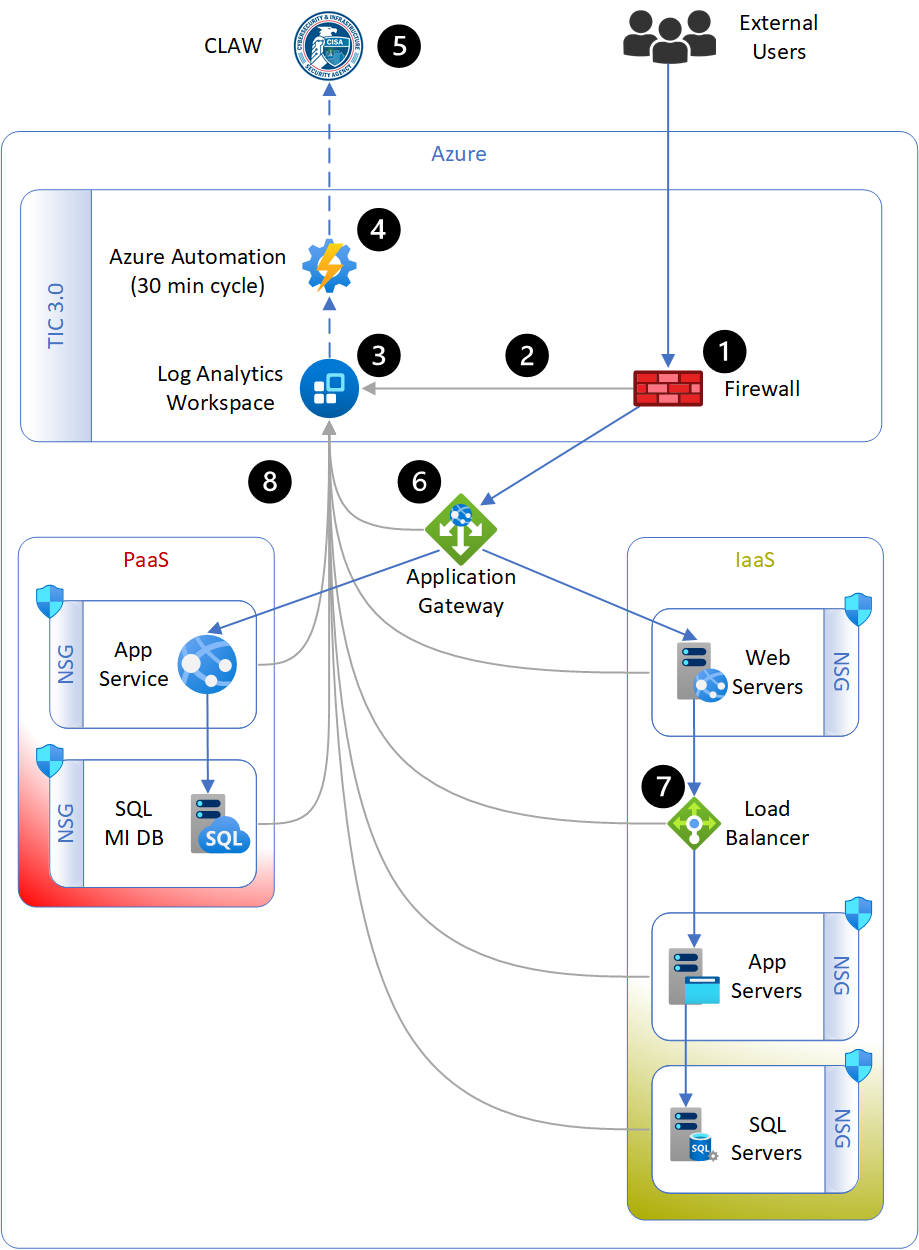
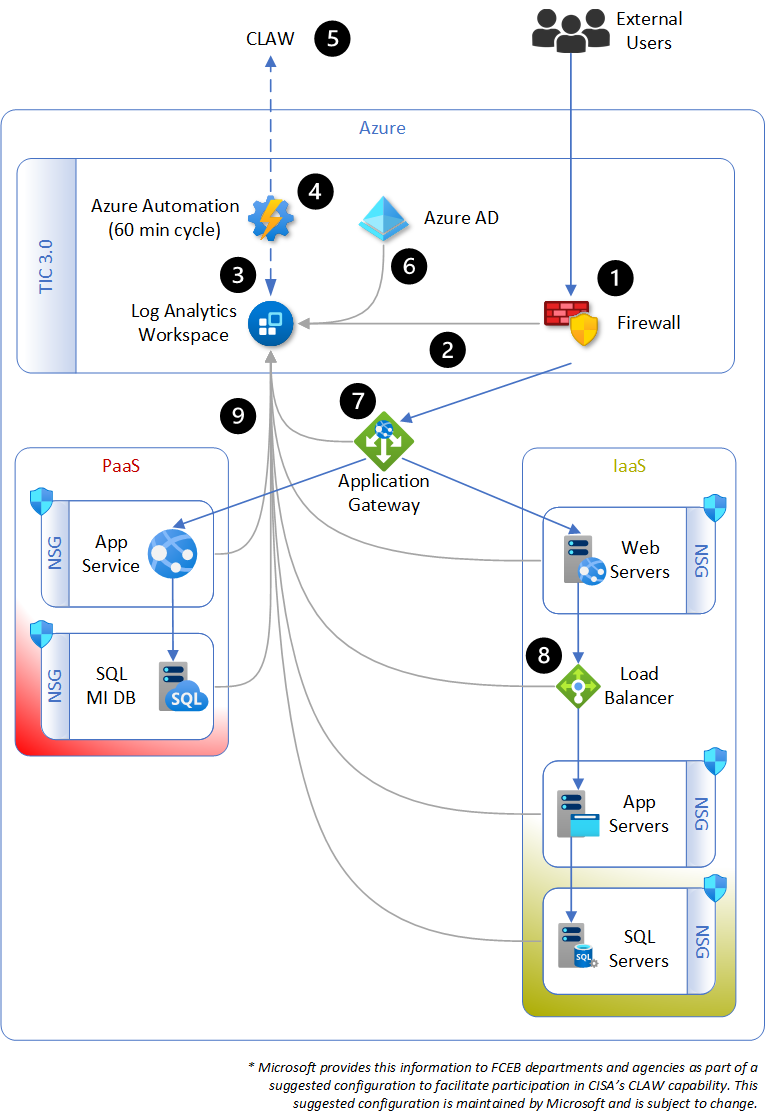
Updated README.md

diff --git a/README.md b/README.md
@@ -5,7 +5,7 @@ The common component for each of the solutions outlined in this article is an Az
 
 ## Potential use cases
 
-Federal organizations and government agencies are the most likely use case for implementing TIC 3.0 compliance solutions for the Azure applications and services. TIC 3.0 matures data collection from the on-premises only into a cloud forward approach that better supports how modern organization IT is utilized. The CISA CLAW is a maturation of the EINSTEIN on-premises data collection model geared towards cloud environments. CISA wants to "improve performance, reduce costs, and enhance threat discovery and incident  responsiveness for agencies". 
+Federal organizations and government agencies are the most likely use case for implementing TIC 3.0 compliance solutions for their web applications and API services deployed in Azure. TIC 3.0 matures data collection from the on-premises only into a cloud forward approach that better supports how modern organization IT is utilized. The CISA CLAW is a maturation of the EINSTEIN on-premises data collection model geared towards cloud environments. CISA aims to "improve performance, reduce costs, and enhance threat discovery and incident  responsiveness for agencies". 
 
 - [TIC 3.0 Core Guidance Documents | CISA](https://www.cisa.gov/publication/tic-30-core-guidance-documents)
 - [National Cybersecurity Protection System Documents (NCPS) | CISA](https://www.cisa.gov/publication/national-cybersecurity-protection-system-documents)
@@ -16,11 +16,11 @@ Federal organizations and government agencies are the most likely use case for i
 
 ### Supported CLAW Destinations
 
-CISA's initial CLAW destination leverages Amazon S3 as the storage mechanism. As such, this solution supports S3. When CISA deploys CLAW support running in Azure, this solution will update to send logs to Azure-based CLAW.
+As of Q1 2022, CISA's CLAW only resides in an Amazon S3 bucket. This means that all TIC 3.0 compliant logs collected in Azure are transmitted to a CISA owned Amazon S3 bucket. This solution supports that storage destination. When an Azure-based CISA owned storage option is available, this solution will update to support saving TIC 3.0 compliant logs to the Azure storage destination.
 
 ## Architecture
 
-Architecture solutions are defined by three categories: Azure firewall and third-party firewalls. Azure firewall send logs to a Log Analytics workspace using the diagnostic settings configuration native to Azure. Third-party firewalls send logs using the vendors syslog export feature. For the purpose of this guide, the Palo Alto network virtual appliance (NVA), running in Azure, will be used for the tutorial on how to export logs in syslog format to the Log Analytics workspace.
+Architecture solutions are defined by two categories, Azure Firewall and third-party firewalls. Azure Firewall is natively configured to send logs to a Log Analytics workspace while third-party firewalls typically send logs to a Log Analytics workspace using the vendors' syslog export feature. For the purpose of this guide, the Palo Alto network virtual appliance (NVA), running in Azure, will be used for the tutorial on how to export logs in syslog format to the Log Analytics workspace.
 
 *Figure 1. TIC 3.0 Compliant Architecture with Firewall Uploading Logs to CLAW*
 
@@ -31,44 +31,31 @@ Architecture solutions are defined by three categories: Azure firewall and third
 #### Firewall
 
 1. Firewall
-   1. This can be a native Azure firewall or a third-party firewall appliance.
-   2. The firewall will enforce policies, collect metrics, and log connection transactions between users and services accessing the web services.
-   3. ARM template for native Azure firewall (premium) provided to simplify deployment.
-      1. Premium is utilized as it provides Intrusion Detection System (IDS) capabilities.
+   - This can be a native Azure Firewall or a third-party firewall appliance.
+   - The firewall will enforce policies, collect metrics, and log connection transactions between users and services accessing the web services.
+   - Firewall policy premium is utilized as it provides Intrusion Detection and Prevent System (IDPS) capabilities.
 2. Firewall Logs
-   1. The Azure firewall will send logs using Azure Diagnostic settings to an Azure Log Analytics workspace.
-      1. Azure Automation will collect and deliver Azure Firewall traffic and IDS logs.
-   2. Third-party firewalls will send logs in syslog format to the Azure Log Analytics workspace.
-      1. Azure Automation can collect and deliver third-party logs, instructions provided.
+   - The Azure Firewall will send logs using Azure Diagnostic settings to an Azure Log Analytics workspace.
+   - Third-party firewalls will send logs in syslog format to the Azure Log Analytics workspace.
 3. Log Analytics Workspace
-   1. Repository for the collection of logs.
-   2. Provides a service for the organization to perform their own analysis on the network traffic along side its delivery to the CLAW.
-   3. ARM template provided to simplify deployment.
+   - Repository for the collection of logs.
+   - Provides a service for the organization to perform their own analysis on the network traffic along side its delivery to the CLAW.
 4. Azure Automation
-   1. Executes every 60 minutes.
-   2. Sends logs in json format to CLAW.
-   3. Automation ARM template and script code provided to simplify deployment.
-   4. Encrypted variables simplifies operational management of updating rotating secrets.
+   - Executes every 60 minutes and queries Log Analytics workspace for Azure Firewall traffic and IDPS logs that were generated over the last 60 minutes.
+   - Collected logs are uploaded to CLAW.
+   - Leverages encrypted variables component of Azure Automation to store values for the runbook to  connect to the Log Analytics workspace and the CLAW storage.
 5. Cloud Log Aggregation Warehouse (CLAW)
-   1. Supports AWS S3 bucket.
-   2. Requires coordination with CISA for access key and secret key.
-6. Azure Active Directory
-   1. Authentication and Access Logs can be sent to the LAW using Diagnostic settings.
-   2. Instructions on how to setup Azure AD Diagnostic settings logging provided.
-   3. Azure Automation can collect and deliver Sign-in logs, [instructions provided](https://github.com/Azure/trusted-internet-connection/tree/main/Architecture/Post%20Deployment%20Tasks#send-azure-ad-logs-to-log-analytics-workspace).
-7. Application Gateway
-   1. Logs can be sent to the LAW.
-8. Load Balancer
-   1. Logs can be sent to the LAW.
-9. Network Security Groups
-   1. NetFlow logs can be sent to the LAW.
-   2. Diagnostic settings logs can be sent to the LAW.
-   3. Instructions on how to setup NetFlow logging provided.
-   4. Azure Automation can collect and deliver NetFlow logs, [instructions provided](https://github.com/Azure/trusted-internet-connection/tree/main/Architecture/Post%20Deployment%20Tasks#send-netflow-logs-to-log-analytics-workspace).
+   - Supports AWS S3 bucket.
+   - Requires coordination with CISA.
+6. Azure Active Directory (AD)
+   - Access and sign-in logs can be sent to the Log Analytics workspace using Azure Diagnostic settings in Azure AD.
+7. Application Gateway, with access and web application firewall logs flowing to the shared Log Analytics workspace.
+8. Load Balancer, with logs flowing to the shared Log Analytics workspace.
+9. Network Security Groups, with logs flowing to the shared Log Analytics workspace.
 
 ### Alternatives
 
-Instead of using an Automation Account to query Log Analytics workspace, format the data into JSON, and upload it to the S3 bucket, the organization could develop their own Azure Function to perform the same task. This may be useful for an organization with software developers integrated into operations and are more familiar with C# or are heavily utilizing Azure Functions today.
+Instead of using an Automation Account to query Log Analytics workspace, format the data into JSON, and upload it to the S3 bucket, the organization could develop their own Azure Function to perform the same task. This may be useful for an organization with software developers integrated into operations and are more familiar with developer languages or are heavily utilizing Azure Functions today.
 
 ## Considerations
 
@@ -78,8 +65,8 @@ Deciding which architecture and resources to deploy, depends on what architectur
 
 - If the organization wants to test using an Automation account, then deploy the [Complete](https://github.com/Azure/trusted-internet-connection#complete) solution to a test/dev environment.
 - If the organization has an application in Azure that is routed back on-premises and have not deployed a firewall in Azure, then deploy the [Network + Log Analytics + Automation](https://github.com/Azure/trusted-internet-connection#network--log-analytics--automation-account).
-- If the organization has an Azure firewall deployed and are routing the application through the Azure firewall back to on-premises, then deploy the [Log Analytics + Automation account](https://github.com/Azure/trusted-internet-connection#log-analytics--automation-account).
-- If the organization is using a Log Analytics workspace, along with an Azure firewall deployed and are routing the application through the Azure firewall back to on-premises [Automation account only](https://github.com/Azure/trusted-internet-connection#automation-account-only).
+- If the organization has an Azure Firewall deployed and are routing the application through the Azure Firewall back to on-premises, then deploy the [Log Analytics + Automation account](https://github.com/Azure/trusted-internet-connection#log-analytics--automation-account).
+- If the organization is using a Log Analytics workspace, along with an Azure Firewall deployed and are routing the application through the Azure Firewall back to on-premises [Automation account only](https://github.com/Azure/trusted-internet-connection#automation-account-only).
 
 ## Deploy this scenario
 
@@ -91,7 +78,7 @@ You must have the following before deployment:
 
 - Resource Group.
 - Register an Enterprise application.
-  - This will be used to provide reader access to Log Analytics workspace (LAW).
+  - This will be used to provide reader access to Log Analytics workspace (Log Analytics workspace).
 - Create Secret for Enterprise application.
 
 Though you can deploy all of the Azure resources, to actually send log data to a CISA CLAW to support the TIC 3.0 compliance you will need the following: 
@@ -105,7 +92,7 @@ For step by step details visit [Post deployment](https://github.com/Azure/truste
 
 The following needs to be performed once deployment is complete. These are the tasks that an ARM template cannot perform and requires some manual effort. 
 
-- Add enterprise application with reader role to Log Analytics workspace (LAW).
+- Add enterprise application with reader role to Log Analytics workspace (Log Analytics workspace).
 - Link schedule to runbook.
 - Update Automation account variables with your unique values 
   - CISA provided CLAW S3 access key
@@ -129,9 +116,9 @@ The runbook uses encrypted Automation account variables to simplify initial conf
 An Azure alert is deployed and configured to send an failure email notification, to the email(s) defined at deployment. The notification informs the organization when the runbook fails. Administrators can dig into the runbook history for more details on why the runbook failed.
 
 
-### Azure firewall supported solutions
+### Azure Firewall supported solutions
 
-The following solutions leverage the native Azure firewall for inbound traffic management into your Azure application environment. Select your solution based on the maturity of your Azure environment. Organizations with an Azure firewall and Log Analytics workspace should use Automation account Only solution.
+The following solutions leverage the native Azure Firewall for inbound traffic management into your Azure application environment. Select your solution based on the maturity of your Azure environment. Organizations with an Azure Firewall and Log Analytics workspace should use Automation account Only solution.
 
 1. [Complete](https://github.com/Azure/trusted-internet-connection#complete)
    1. Includes all resources and a virtual machine to generate internet-bound traffic.
@@ -153,8 +140,8 @@ Deploys all resources to generate, collect, and deliver logs to CLAW. Includes v
 
 - VNET with subnet for firewall and servers.
 - Log Analytics workspace.
-- Azure firewall with network policy for internet access.
-- Configures Azure firewall diagnostic settings to send logs to Log Analytics workspace.
+- Azure Firewall with network policy for internet access.
+- Configures Azure Firewall diagnostic settings to send logs to Log Analytics workspace.
 - Route table to route servers to firewall for internet access.
 - Automation account with published runbook, schedule, and required AWSPowerShell module.
 - Alert on failed jobs will trigger email.
@@ -173,8 +160,8 @@ Deploys all Azure resources for the network, logging, and automation. Does NOT i
 
 - VNET with subnet for firewall and servers.
 - Log Analytics workspace.
-- Azure firewall with network policy for internet access.
-- Configures Azure firewall diagnostic settings to send logs to Log Analytics workspace.
+- Azure Firewall with network policy for internet access.
+- Configures Azure Firewall diagnostic settings to send logs to Log Analytics workspace.
 - Route table to route servers to firewall for internet access.
 - Automation account with published runbook, schedule, and required AWSPowerShell module.
 - Alert on failed jobs will trigger email.
@@ -184,14 +171,14 @@ Deploys all Azure resources for the network, logging, and automation. Does NOT i
 
 #### Log Analytics + Automation account
 
-This is good if you already have VNETs, firewalls, and route table/route server. You may have the firewall in place today and traffic is routed from a TIC 2.0+ MTIPS device to your application gateway in azure. You can keep that solution in place while you confirm the Azure firewalls logs are collected and uploaded to the CLAW. Then update your routing so that your external users no longer utilized the MTIPS device but routed directly to the Azure firewall.
+This is good if you already have VNETs, firewalls, and route table/route server. You may have the firewall in place today and traffic is routed from a TIC 2.0+ MTIPS device to your application gateway in azure. You can keep that solution in place while you confirm the Azure Firewalls logs are collected and uploaded to the CLAW. Then update your routing so that your external users no longer utilized the MTIPS device but routed directly to the Azure Firewall.
 
 [![Deploy to Azure](https://aka.ms/deploytoazurebutton)](https://portal.azure.com/#create/Microsoft.Template/uri/https%3A%2F%2Fraw.githubusercontent.com%2FAzure%2Ftrusted-internet-connection%2Fmain%2FArchitecture%2FAzure%2520Firewall%2FLog%2520Analytics%2520and%2520Automation%2520Account%2Fazuredeploy.json)
 
 Solution includes the following:
 
 - Log Analytics workspace.
-- Configures Azure firewall diagnostic settings to send logs to Log Analytics workspace.
+- Configures Azure Firewall diagnostic settings to send logs to Log Analytics workspace.
 - Automation account with published runbook, schedule, and required AWSPowerShell module.
 - Alert on failed jobs will trigger email.
 - Storage account.
@@ -200,13 +187,13 @@ Solution includes the following:
 
 #### Automation account only
 
-This is good if you already have networks, an Azure firewall, and are using a centralized Log Analytics workspace. 
+This is good if you already have networks, an Azure Firewall, and are using a centralized Log Analytics workspace. 
 
 [![Deploy to Azure](https://aka.ms/deploytoazurebutton)](https://portal.azure.com/#create/Microsoft.Template/uri/https%3A%2F%2Fraw.githubusercontent.com%2FAzure%2Ftrusted-internet-connection%2Fmain%2FArchitecture%2FAzure%2520Firewall%2FAutomation%2520Account%2520Only%2Fazuredeploy.json)
 
 Solution includes the following
 
-- Configures Azure firewall diagnostic settings to send logs to Log Analytics workspace.
+- Configures Azure Firewall diagnostic settings to send logs to Log Analytics workspace.
 - Automation account with published runbook, schedule, and required AWSPowerShell module.
 - Alert on failed jobs will trigger email.
 - Storage account.
@@ -231,7 +218,7 @@ Evaluate your current architecture to determine which solution best upgrades wha
 - Review the [prerequisite](https://github.com/Azure/trusted-internet-connection/tree/main/Architecture/Prerequisite%20Tasks) and [post deployment](https://github.com/Azure/trusted-internet-connection/tree/main/Architecture/Post%20Deployment%20Tasks) tasks. 
 - Use the Deploy the Azure button and deploy one or more of the solutions to a test environment to become familiar with the process and the deployed resources.
   - [Deploy this scenario](https://github.com/Azure/trusted-internet-connection#deploy-this-scenario)
-- Evaluate Azure firewall routing 
+- Evaluate Azure Firewall routing 
   - [Deploy & configure Azure Firewall using the Azure portal | Microsoft Docs](https://docs.microsoft.com/en-us/azure/firewall/tutorial-firewall-deploy-portal)
 
 ## Related Resources
